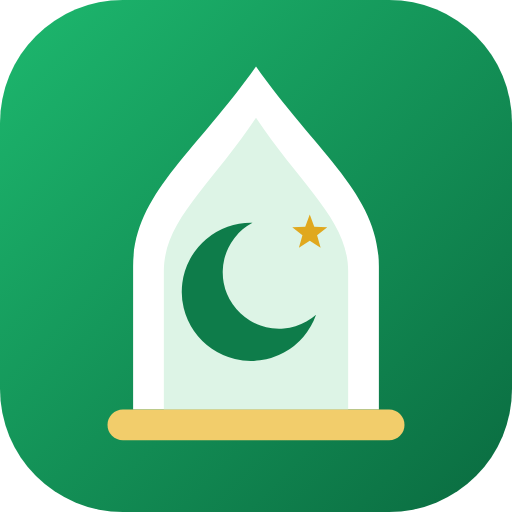
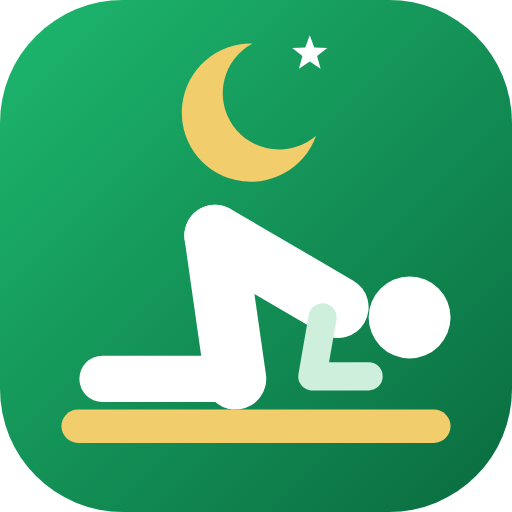
upgrade revisi pak Sam

Changed region(s): [[0.0938, 0.0625, 0.9062, 0.875], [0.5625, 0.0625, 0.625, 0.125]]

diff --git a/src/i18n.js b/src/i18n.js
@@ -1,6 +1,6 @@
 /** i18n.js — Indonesia, English, Arab (RTL), Melayu. t('kunci', {n:1}). Tambah bahasa baru = tambah satu objek. */
 const ID = {
-  hello: "Assalamu'alaikum!", 'ban.s': 'Ingat Allah', 'ban.h': 'Mulai Dzikir\nHari Ini', 'ban.b': 'Mulai sekarang',
+  hello: "Assalamu'alaikum!", 'ban.s': 'Asisten Shalat Berbasis AI', 'ban.h': 'Kalibrasi &\nKoreksi Kamera', 'ban.b1': 'Kalibrasi sensor', 'ban.b2': 'Buka kamera AI', 'f.rk.t': 'Kalibrasi Sensor', 'f.rk.d': 'Kalibrasi 3 detik, lalu rukuk, sujud & rakaat terhitung otomatis dari sensor HP.', 'f.cam.t': 'Koreksi Kamera AI', 'f.cam.d': 'AI membaca postur rukuk & sujud dari samping, lengkap dengan skor.', 'st.1': 'Kalibrasi 3 detik', 'st.2': 'Hitung otomatis', 'st.3': 'Koreksi kamera', 's.cam': 'skor gerakan', 'nav.rk': 'Kalibrasi',
   'm.rk': 'Rakaat', 'm.dz': 'Dzikir', 'm.cam': 'Koreksi AI', 'm.qb': 'Kiblat', 'nav.home': 'Beranda', 'nav.cam': 'Koreksi',
   bell: 'Aktifkan notifikasi', 'n.on': 'Notifikasi aktif', 'n.off': 'Notifikasi tidak diizinkan',
   'tm.title': 'Jadwal Shalat', 'tm.load': 'Memuat lokasi…', 'tm.left': 'lagi', 'tm.fail': 'Gagal memuat jadwal. Periksa internet.', 'tm.me': 'Lokasimu', 'tm.find': 'Mencari nama lokasi…', 'tm.noname': 'Lokasi terdeteksi (nama belum tersedia)', 'tm.tap': 'Ketuk untuk memperbarui lokasi', 'tm.def': 'Jakarta (izinkan lokasi agar akurat)', 'tm.now': 'Waktu shalat {n} telah tiba',
@@ -21,7 +21,7 @@ const ID = {
   'qb.title': 'Arah Kiblat', 'qb.intro': "Tekan mulai lalu putar HP hingga ikon Ka'bah di atas.", 'qb.start': 'Mulai kompas', 'qb.ok': 'Arah kiblat tepat', 'qb.deg': "Kiblat {d}° dari utara. Putar HP ke arah ikon Ka'bah.", 'qb.err': 'Sensor kompas tidak tersedia atau izin ditolak.', 'qb.n': 'U',
 };
 const EN = {
-  hello: 'Assalamu alaikum!', 'ban.s': 'Remember Allah', 'ban.h': 'Start Dhikr\nToday', 'ban.b': 'Start now',
+  hello: 'Assalamu alaikum!', 'ban.s': 'AI Prayer Assistant', 'ban.h': 'Calibrate &\nCamera Check', 'ban.b1': 'Calibrate sensor', 'ban.b2': 'Open AI camera', 'f.rk.t': 'Sensor Calibration', 'f.rk.d': 'Calibrate for 3 seconds, then ruku, sujud and rakat are counted automatically by your phone sensor.', 'f.cam.t': 'AI Camera Check', 'f.cam.d': 'AI reads your ruku and sujud posture from the side and gives you a score.', 'st.1': '3-sec calibration', 'st.2': 'Auto counting', 'st.3': 'Camera check', 's.cam': 'movement score', 'nav.rk': 'Calibrate',
   'm.rk': 'Rakat', 'm.dz': 'Dhikr', 'm.cam': 'AI Check', 'm.qb': 'Qibla', 'nav.home': 'Home', 'nav.cam': 'Check',
   bell: 'Enable notifications', 'n.on': 'Notifications enabled', 'n.off': 'Notifications not allowed',
   'tm.title': 'Prayer Times', 'tm.load': 'Loading location…', 'tm.left': 'left', 'tm.fail': 'Failed to load times. Check your internet.', 'tm.me': 'Your location', 'tm.find': 'Finding place name…', 'tm.noname': 'Location found (name unavailable)', 'tm.tap': 'Tap to refresh location', 'tm.def': 'Jakarta (allow location for accuracy)', 'tm.now': 'It is time for {n} prayer',
@@ -42,7 +42,7 @@ const EN = {
   'qb.title': 'Qibla Direction', 'qb.intro': 'Tap start, then turn your phone until the Kaaba icon is at the top.', 'qb.start': 'Start compass', 'qb.ok': 'Facing the Qibla', 'qb.deg': 'Qibla is {d}° from north. Turn toward the Kaaba icon.', 'qb.err': 'Compass sensor unavailable or permission denied.', 'qb.n': 'N',
 };
 const AR = {
-  hello: 'السلام عليكم!', 'ban.s': 'اذكر الله', 'ban.h': 'ابدأ الذكر\nاليوم', 'ban.b': 'ابدأ الآن',
+  hello: 'السلام عليكم!', 'ban.s': 'مساعد الصلاة بالذكاء الاصطناعي', 'ban.h': 'معايرة و\nفحص الكاميرا', 'ban.b1': 'معايرة المستشعر', 'ban.b2': 'افتح كاميرا الذكاء الاصطناعي', 'f.rk.t': 'معايرة المستشعر', 'f.rk.d': 'عايِر لمدة 3 ثوانٍ ثم تُحتسب الركعات والركوع والسجود تلقائيًا من مستشعر هاتفك.', 'f.cam.t': 'فحص الكاميرا الذكي', 'f.cam.d': 'يقرأ الذكاء الاصطناعي وضعية الركوع والسجود من الجانب ويعطيك درجة.', 'st.1': 'معايرة 3 ثوانٍ', 'st.2': 'عدّ تلقائي', 'st.3': 'فحص بالكاميرا', 's.cam': 'درجة الحركة', 'nav.rk': 'المعايرة',
   'm.rk': 'الركعات', 'm.dz': 'الأذكار', 'm.cam': 'فحص الحركة', 'm.qb': 'القبلة', 'nav.home': 'الرئيسية', 'nav.cam': 'فحص',
   bell: 'تفعيل الإشعارات', 'n.on': 'تم تفعيل الإشعارات', 'n.off': 'الإشعارات غير مسموحة',
   'tm.title': 'مواقيت الصلاة', 'tm.load': 'جارٍ تحديد الموقع…', 'tm.left': 'متبقٍ', 'tm.fail': 'تعذر تحميل المواقيت. تحقق من الإنترنت.', 'tm.me': 'موقعك', 'tm.find': 'جارٍ تحديد اسم المكان…', 'tm.noname': 'تم تحديد الموقع (الاسم غير متاح)', 'tm.tap': 'اضغط لتحديث الموقع', 'tm.def': 'جاكرتا (اسمح بالموقع لمزيد من الدقة)', 'tm.now': 'حان وقت صلاة {n}',
@@ -62,7 +62,7 @@ const AR = {
   'e.knee': 'الركبتان غير مستقيمتين', 'e.upright': 'الجسم غير منتصب', 'e.rlow': 'الركوع غير مكتمل والظهر غير مستوٍ', 'e.rhigh': 'الانحناء في الركوع زائد', 'e.head': 'لا ينبغي أن يكون الرأس أخفض من الظهر', 'e.rknee': 'لا تثنِ ركبتيك في الركوع', 'e.elbow': 'لا تُلصق المرفقين بالأرض', 'e.hip': 'الحوض غير مرفوع في السجود', 'e.sitback': 'الظهر غير منتصب أثناء الجلوس',
   'qb.title': 'اتجاه القبلة', 'qb.intro': 'اضغط ابدأ ثم أدر هاتفك حتى تكون أيقونة الكعبة في الأعلى.', 'qb.start': 'تشغيل البوصلة', 'qb.ok': 'أنت في اتجاه القبلة', 'qb.deg': 'القبلة {d}° من الشمال. أدر الهاتف نحو أيقونة الكعبة.', 'qb.err': 'حساس البوصلة غير متاح أو تم رفض الإذن.', 'qb.n': 'ش',
 };
-const MS = { ...ID, 'ban.h': 'Mula Zikir\nHari Ini', 'ban.b': 'Mula sekarang', 'rk.shirt': 'Poket Baju', 'rk.pants': 'Poket Seluar', 'rk.tilt': 'Kecondongan telefon', 'p.dzuhur': 'Zohor', 'p.ashar': 'Asar', 'p.isya': 'Isyak',
+const MS = { ...ID, 'ban.s': 'Pembantu Solat Berasaskan AI', 'ban.h': 'Tentukur &\nSemakan Kamera', 'ban.b1': 'Tentukur sensor', 'ban.b2': 'Buka kamera AI', 'f.rk.t': 'Tentukur Sensor', 'f.rk.d': 'Tentukur 3 saat, kemudian rukuk, sujud & rakaat dikira automatik oleh sensor telefon.', 'f.cam.t': 'Semakan Kamera AI', 'f.cam.d': 'AI membaca postur rukuk & sujud dari sisi, lengkap dengan skor.', 'st.1': 'Tentukur 3 saat', 'st.2': 'Kira automatik', 'st.3': 'Semakan kamera', 's.cam': 'skor gerakan', 'nav.rk': 'Tentukur', 'rk.shirt': 'Poket Baju', 'rk.pants': 'Poket Seluar', 'rk.tilt': 'Kecondongan telefon', 'p.dzuhur': 'Zohor', 'p.ashar': 'Asar', 'p.isya': 'Isyak',
   'tm.title': 'Waktu Solat', 'tm.load': 'Memuatkan lokasi…', 'tm.left': 'lagi', 'tm.fail': 'Gagal memuat waktu. Semak internet.', 'tm.me': 'Lokasi anda', 'tm.find': 'Mencari nama lokasi…', 'tm.noname': 'Lokasi dikesan (nama tidak tersedia)', 'tm.tap': 'Ketik untuk kemas kini lokasi', 'tm.def': 'Jakarta (benarkan lokasi untuk ketepatan)', 'tm.now': 'Masuk waktu solat {n}',
   's.streak': 'hari berturut', 's.dz': 'zikir hari ini', 's.pr': 'solat hari ini', mark: 'tandakan sudah solat', 'm.dz': 'Zikir', 'm.cam': 'Semakan AI', 'nav.cam': 'Semak', bell: 'Aktifkan notifikasi',
   'rk.title': 'Pengira Rakaat', 'rk.start': 'Tentukur & mula', 'rk.stop': 'Henti', 'rk.intro': 'Berdiri tegak 3 saat untuk penentukuran, kemudian mula solat.', 'rk.hint': 'Poket Baju mengesan gerakan badan, Poket Seluar mengesan gerakan paha. Berdiri tegak semasa penentukuran.',

diff --git a/src/icons.js b/src/icons.js
@@ -11,6 +11,7 @@ const P = {
   beads: '<circle cx="19" cy="12" r="1.7"/><circle cx="16.95" cy="16.95" r="1.7"/><circle cx="12" cy="19" r="1.7"/><circle cx="7.05" cy="16.95" r="1.7"/><circle cx="5" cy="12" r="1.7"/><circle cx="7.05" cy="7.05" r="1.7"/><circle cx="12" cy="5" r="1.7"/><circle cx="16.95" cy="7.05" r="1.7"/>',
   ruku: '<circle cx="6" cy="8" r="2"/><path d="M8.5 9.5H17M17 9.5V20M10 10l6 5.5"/>',
   scan: '<path d="M4 8V5a1 1 0 0 1 1-1h3M16 4h3a1 1 0 0 1 1 1v3M20 16v3a1 1 0 0 1-1 1h-3M8 20H5a1 1 0 0 1-1-1v-3"/><circle cx="12" cy="8.5" r="1.7"/><path d="M12 11v5M9.5 12.5L12 11l2.5 1.5M12 16l-2 3M12 16l2 3"/>',
+  calib: '<circle cx="12" cy="12" r="8"/><circle cx="12" cy="12" r="3"/><path d="M12 2v3M12 19v3M2 12h3M19 12h3"/>',
   sunrise: '<path d="M3 18h18M7 18a5 5 0 0 1 10 0M12 4v6M9.5 6.5L12 4l2.5 2.5"/>',
   sun: '<circle cx="12" cy="12" r="4"/><path d="M12 2v3M12 19v3M2 12h3M19 12h3M5 5l2 2M17 17l2 2M5 19l2-2M17 7l2-2"/>',
   afternoon: '<circle cx="9" cy="9" r="3"/><path d="M9 2.5V4M2.5 9H4M4.5 4.5l1 1M13.5 4.5l-1 1"/><path d="M8 20a4 4 0 0 1 .5-8 5 5 0 0 1 9.5 1.5A3.3 3.3 0 0 1 17.5 20z"/>',
@@ -24,10 +25,11 @@ const P = {
   lock: '<rect x="5" y="11" width="14" height="9" rx="2.5"/><path d="M8 11V8a4 4 0 0 1 8 0v3"/>',
   shield: '<path d="M12 3l7 3v5c0 4.5-3 8.2-7 10-4-1.8-7-5.5-7-10V6z"/><path d="M9 12l2 2 4-4"/>',
   trash: '<path d="M4 7h16M9 7V4h6v3M6 7l1 13h10l1-13M10 11v6M14 11v6"/>',
+  arrow: '<path d="M9 5l7 7-7 7"/>',
   user: '<circle cx="12" cy="8" r="4"/><path d="M4 20c1-4 4.5-6 8-6s7 2 8 6"/>',
 };
 export const ic = (n, s = 24) => `<svg class="ic" width="${s}" height="${s}" viewBox="0 0 24 24" fill="none" stroke="currentColor" stroke-width="1.8" stroke-linecap="round" stroke-linejoin="round" aria-hidden="true">${P[n]}</svg>`;
-export const logo = () => `<svg class="logo" viewBox="0 0 100 100" aria-hidden="true"><rect width="100" height="100" rx="24" fill="url(#lgBg)"/><path d="M26 80V52C26 38 38 30 50 13C62 30 74 38 74 52V80Z" fill="#fff"/><path d="M32 80V53C32 43 41 36.5 50 23C59 36.5 68 43 68 53V80Z" fill="#DDF4E6"/><path d="M49.31 43.5A13.5 13.5 0 1 0 61.73 61.49A11 11 0 1 1 49.31 43.5Z" fill="#0E7C4A"/><path d="M60.5,41.9L61.38,44.29L63.92,44.39L61.93,45.96L62.62,48.41L60.5,47L58.38,48.41L59.07,45.96L57.08,44.39L59.62,44.29Z" fill="#E0A81E"/><rect x="21" y="80" width="58" height="6" rx="3" fill="#F2CD6B"/></svg>`;
+export const logo = () => `<svg class="logo" viewBox="0 0 100 100" aria-hidden="true"><rect width="100" height="100" rx="24" fill="url(#lgBg)"/><g transform="translate(0 -35)"><path d="M49.31 43.5A13.5 13.5 0 1 0 61.73 61.49A11 11 0 1 1 49.31 43.5Z" fill="#F2CD6B"/><path d="M60.5,41.9L61.38,44.29L63.92,44.39L61.93,45.96L62.62,48.41L60.5,47L58.38,48.41L59.07,45.96L57.08,44.39L59.62,44.29Z" fill="#fff"/></g><g transform="translate(0 -6)" fill="none" stroke-linecap="round" stroke-linejoin="round" stroke="#fff"><path d="M20 80H46" stroke-width="9"/><path d="M46 80L42 52" stroke-width="12"/><path d="M42 52L66 66" stroke-width="12"/><path d="M63 68L61 79.5H72" stroke-width="5.5" stroke="#CDEFDB"/></g><circle cx="80" cy="62" r="8" fill="#fff"/><rect x="12" y="80" width="76" height="6.5" rx="3.25" fill="#F2CD6B"/></svg>`;
 export function beads() { // cincin tasbih 18 manik, berputar pelan & berpendar bergantian
   let s = '<svg viewBox="0 0 200 200" aria-hidden="true"><g class="ring">';
   for (let i = 0; i < 18; i++) { const a = (i * 20 - 90) * Math.PI / 180; s += `<circle cx="${(100 + 74 * Math.cos(a)).toFixed(1)}" cy="${(100 + 74 * Math.sin(a)).toFixed(1)}" r="${i === 0 ? 10 : 6.5}" style="animation-delay:${(i * 0.17).toFixed(2)}s"/>`; }
@@ -36,4 +38,11 @@ export function beads() { // cincin tasbih 18 manik, berputar pelan & berpendar 
 export function mount(root = document) {
   root.querySelectorAll('[data-ic]').forEach((e) => (e.innerHTML = ic(e.dataset.ic, +e.dataset.s || 24)));
   root.querySelectorAll('[data-logo]').forEach((e) => (e.innerHTML = logo()));
+}
+/** Dekorasi banner beranda: bingkai pemindai + kerangka sendi (kesan "AI membaca gerakan"). */
+export function scanDeco() {
+  const j = [[62, 58], [86, 74], [110, 70], [130, 92], [132, 124]]; // kepala/bahu → pinggul → lutut (ilustrasi)
+  const lines = j.slice(1).map((p, i) => `<line x1="${j[i][0]}" y1="${j[i][1]}" x2="${p[0]}" y2="${p[1]}"/>`).join('');
+  const dots = j.map((p, i) => `<circle class="jt" cx="${p[0]}" cy="${p[1]}" r="${i === 0 ? 9 : 5.5}" style="animation-delay:${(i * 0.25).toFixed(2)}s"/>`).join('');
+  return `<svg viewBox="0 0 200 200" aria-hidden="true"><g class="frm"><path d="M30 62V40a10 10 0 0 1 10-10h22M138 30h22a10 10 0 0 1 10 10v22M170 138v22a10 10 0 0 1-10 10h-22M62 170H40a10 10 0 0 1-10-10v-22"/></g><g class="skel">${lines}${dots}</g><line class="scanln" x1="38" y1="0" x2="162" y2="0"/></svg>`;
 }

diff --git a/src/app.js b/src/app.js
@@ -1,10 +1,9 @@
 /** app.js — navigasi, bahasa, jadwal shalat, beranda, penghitung rakaat (sensor), koreksi gerakan (kamera). */
 import { $, z, dayKey, store, toast, speak, beep, place, placeName, session, logout, isAdmin, syncStats } from './util.js';
 import { t, lang, setLang, apply, hooks, LANGS } from './i18n.js';
-import { ic, mount, beads } from './icons.js';
+import { ic, mount, scanDeco } from './icons.js';
 import { createCounter } from './counter.js';
 import { startPose, stopPose } from './pose.js';
-import { dzToday } from './dzikir.js';
 import './qibla.js';
 
 const PR = [{ id: 'subuh', k: 'Fajr', r: 2, i: 'sunrise' }, { id: 'dzuhur', k: 'Dhuhr', r: 4, i: 'sun' }, { id: 'ashar', k: 'Asr', r: 4, i: 'afternoon' }, { id: 'maghrib', k: 'Maghrib', r: 3, i: 'sunset' }, { id: 'isya', k: 'Isha', r: 4, i: 'moon' }];
@@ -13,7 +12,7 @@ const setBtn = (el, k) => { el.dataset.i = k; el.textContent = t(k); }, pName = 
 /* ---- Bahasa, ikon, splash ---- */
 $('lang').innerHTML = Object.entries(LANGS).map(([k, [n]]) => `<option value="${k}" title="${n}" ${k === lang() ? 'selected' : ''}>${k.toUpperCase()}</option>`).join('');
 $('lang').onchange = (e) => setLang(e.target.value);
-mount(); apply(); $('deco').innerHTML = beads();
+mount(); apply(); $('deco').innerHTML = scanDeco();
 function setGreet() {
   const s = session() || {}, h = new Date().getHours(), guest = s.id === 'guest';
   const part = h < 4 ? 'night' : h < 10 ? 'morning' : h < 15 ? 'noon' : h < 18 ? 'afternoon' : 'night';
@@ -63,7 +62,7 @@ function renderHome() {
   if (locInfo) { delete $('locTxt').dataset.i; $('locTxt').textContent = !locInfo.ok ? t('tm.def') : locInfo.name || (locInfo.failed ? t('tm.noname') : t('tm.find')); }
   $('tgrid').innerHTML = PR.map((p) => `<button class="tc ${nx.id === p.id ? 'next' : ''} ${today[p.id] ? 'done' : ''}" data-id="${p.id}" aria-pressed="${!!today[p.id]}" aria-label="${pName(p.id)}, ${t('mark')}"><span>${times[p.id] ? hm(times[p.id]) : '--:--'}</span>${ic(p.i, 26)}${pName(p.id)}</button>`).join('');
   let s = 0; for (let d = new Date(); ; d.setDate(d.getDate() - 1)) { const l = log[dayKey(d)]; if (l && PR.every((p) => l[p.id])) s++; else if (dayKey(d) === dayKey()) continue; else break; }
-  $('hStreak').textContent = s; $('hDz').textContent = dzToday(); $('hDone').textContent = PR.filter((p) => today[p.id]).length + '/5';
+  $('hStreak').textContent = s; { const c = store.get('rs.cam', null); $('hCam').textContent = c && c.score != null ? c.score + '%' : '–'; } $('hDone').textContent = PR.filter((p) => today[p.id]).length + '/5';
   setDates(); if (times.subuh) $('nextName').textContent = pName(nextPrayer().id);
 }
 $('tgrid').onclick = (e) => { const b = e.target.closest('.tc'); if (b) mark(b.dataset.id, !(store.get('rs.log', {})[dayKey()] || {})[b.dataset.id]); };
@@ -103,16 +102,17 @@ $('cStart').onclick = async () => {
 $('plus').onclick = () => { counter.adjust(1); refresh(true); }; $('minus').onclick = () => { counter.adjust(-1); finished = false; refresh(); };
 
 /* ---- Koreksi gerakan (kamera) ---- */
-let camOn = false, errs = 0;
+let camOn = false, errs = 0, lastScore = null, camSave = 0;
+const saveCam = () => { if (lastScore == null) return; store.set('rs.cam', { score: lastScore, at: Date.now() }); renderHome(); };
 $('camBtn').onclick = async () => {
-  if (camOn) { stopPose($('video')); camOn = false; setBtn($('camBtn'), 'cam.start'); return; }
-  setBtn($('camBtn'), 'cam.load'); errs = 0; $('errs').textContent = 0;
+  if (camOn) { stopPose($('video')); camOn = false; clearInterval(camSave); saveCam(); setBtn($('camBtn'), 'cam.start'); return; }
+  setBtn($('camBtn'), 'cam.load'); errs = 0; lastScore = null; $('errs').textContent = 0;
   try {
     await startPose($('video'), $('ov'), {
       posture: (n, bad) => { $('posture').dataset.i = 'po.' + n; $('posture').textContent = t('po.' + n); $('posture').classList.toggle('bad', bad); },
-      score: (s) => ($('score').textContent = s + '%'),
+      score: (s) => { lastScore = s; $('score').textContent = s + '%'; },
       error: (code) => { errs++; $('errs').textContent = errs; const s = t('cam.warn', { m: t('e.' + code) }); toast(s); speak(s, lang()); navigator.vibrate?.(200); },
-    }); camOn = true; setBtn($('camBtn'), 'rk.stop');
+    }); camOn = true; camSave = setInterval(saveCam, 8000); setBtn($('camBtn'), 'rk.stop');
   } catch { setBtn($('camBtn'), 'cam.start'); toast(t('cam.err')); }
 };
 

diff --git a/index.html b/index.html
@@ -48,14 +48,20 @@
       <button class="icon" id="logout" data-ia="au.out" data-ic="logout" data-s="20"></button></div>
   </div>
   <div class="greet"><h1 id="greet"></h1><p id="greet2"></p><small id="dates"></small></div>
-  <div class="banner"><small data-i="ban.s"></small><h2 data-i="ban.h"></h2><button class="pill dark" data-go="dz" data-i="ban.b"></button><div class="deco" id="deco"></div></div>
-  <div class="menu">
-    <button data-go="rk"><span data-ic="ruku" data-s="30"></span><em data-i="m.rk"></em></button><button data-go="dz"><span data-ic="beads" data-s="30"></span><em data-i="m.dz"></em></button>
-    <button data-go="cam"><span data-ic="scan" data-s="30"></span><em data-i="m.cam"></em></button><button data-go="qb"><span data-ic="compass" data-s="30"></span><em data-i="m.qb"></em></button>
+  <div class="banner"><small data-i="ban.s"></small><h2 data-i="ban.h"></h2>
+    <div class="ban-btns"><button class="pill dark" data-go="rk" data-i="ban.b1"></button><button class="pill glass" data-go="cam" data-i="ban.b2"></button></div>
+    <div class="deco" id="deco"></div></div>
+  <div class="feat">
+    <button class="fcard" data-go="rk"><span class="fi" data-ic="calib" data-s="28"></span><span class="ft"><b data-i="f.rk.t"></b><small data-i="f.rk.d"></small></span><span class="fa" data-ic="arrow" data-s="20"></span></button>
+    <button class="fcard cam" data-go="cam"><span class="fi" data-ic="scan" data-s="28"></span><span class="ft"><b data-i="f.cam.t"></b><small data-i="f.cam.d"></small></span><span class="fa" data-ic="arrow" data-s="20"></span></button>
+  </div>
+  <div class="steps"><div><i>1</i><span data-i="st.1"></span></div><div><i>2</i><span data-i="st.2"></span></div><div><i>3</i><span data-i="st.3"></span></div></div>
+  <div class="menu two">
+    <button data-go="qb"><span data-ic="compass" data-s="26"></span><em data-i="m.qb"></em></button><button data-go="dz"><span data-ic="beads" data-s="26"></span><em data-i="m.dz"></em></button>
   </div>
   <div class="card times"><button class="loc" id="loc" data-ia="tm.tap"><span data-ic="pin" data-s="16"></span><span id="locTxt" data-i="tm.load"></span></button><h3 data-i="tm.title"></h3><div class="next"><span id="nextName">—</span> <b id="nextTime">--:--</b> <small id="countdown"></small></div>
     <div class="tgrid" id="tgrid"></div>
-    <div class="sum"><div><b id="hStreak">0</b><small data-i="s.streak"></small></div><div><b id="hDz">0</b><small data-i="s.dz"></small></div><div><b id="hDone">0/5</b><small data-i="s.pr"></small></div></div></div>
+    <div class="sum"><div><b id="hStreak">0</b><small data-i="s.streak"></small></div><div><b id="hCam">–</b><small data-i="s.cam"></small></div><div><b id="hDone">0/5</b><small data-i="s.pr"></small></div></div></div>
 </section>
 
 <section id="adm" class="tab">
@@ -127,6 +133,6 @@
 </section>
 </main>
 
-<nav class="nav" id="nav"><button data-go="home" class="on"><span data-ic="home"></span><span data-i="nav.home"></span></button><button data-go="rk"><span data-ic="ruku"></span><span data-i="m.rk"></span></button><button data-go="dz"><span data-ic="beads"></span><span data-i="m.dz"></span></button><button data-go="cam"><span data-ic="scan"></span><span data-i="nav.cam"></span></button><button data-go="qb"><span data-ic="compass"></span><span data-i="m.qb"></span></button></nav>
+<nav class="nav" id="nav"><button data-go="home" class="on"><span data-ic="home"></span><span data-i="nav.home"></span></button><button data-go="rk"><span data-ic="calib"></span><span data-i="nav.rk"></span></button><button data-go="cam"><span data-ic="scan"></span><span data-i="nav.cam"></span></button><button data-go="qb"><span data-ic="compass"></span><span data-i="m.qb"></span></button><button data-go="dz"><span data-ic="beads"></span><span data-i="m.dz"></span></button></nav>
 <script type="module" src="/src/main.js"></script>
 </body></html>

diff --git a/src/style.css b/src/style.css
@@ -188,3 +188,32 @@ button:focus-visible,select:focus-visible,input:focus-visible{outline:3px solid 
 .abtn{margin-top:.6rem}.abtn.ghost{background:#fff;color:var(--g3);border:1.5px solid var(--line);box-shadow:none}.abtn.danger{color:#B3262B}
 .urow.clk{cursor:pointer}.uchev{opacity:.45;display:grid}
 #aDetail{margin-top:.9rem}#aDetail>.mute.small{margin:.5rem 0 1rem}#aDetail>.au-err{margin:0 0 .8rem}#aAdd{margin:.5rem 0 .9rem}
+
+/* ---- Beranda v6: fokus kalibrasi & kamera AI ---- */
+.banner h2,.banner small,.ban-btns{position:relative;z-index:1}
+.banner h2{font-size:1.65rem;max-width:100%}
+.banner .deco{top:-6px;bottom:auto;inset-inline-end:-8px;width:150px;height:150px}
+.ban-btns{display:flex;gap:.5rem;flex-wrap:wrap}
+.pill.glass{background:rgba(255,255,255,.16);color:#fff;border:1px solid rgba(255,255,255,.55)}
+.deco .frm path{fill:none;stroke:#fff;stroke-width:5;stroke-linecap:round;opacity:.38}
+.deco .skel line{stroke:#fff;stroke-width:5;stroke-linecap:round;opacity:.3}
+.deco .jt{fill:#fff;opacity:.55;animation:jtp 2.4s ease-in-out infinite}
+.deco .scanln{stroke:#F2CD6B;stroke-width:3;stroke-linecap:round;animation:scanmv 3.2s ease-in-out infinite}
+@keyframes jtp{50%{opacity:.2}}
+@keyframes scanmv{0%{transform:translateY(34px);opacity:0}15%,85%{opacity:.9}100%{transform:translateY(166px);opacity:0}}
+.feat{display:grid;gap:.7rem;margin-bottom:.8rem}
+.fcard{display:flex;align-items:center;gap:.85rem;text-align:start;background:#fff;border:1px solid var(--line);border-radius:22px;padding:.9rem 1rem;box-shadow:var(--shadow);cursor:pointer;color:var(--text);font:inherit;width:100%;transition:transform .12s}
+.fcard:active{transform:scale(.985)}
+.fcard .fi{flex:none;width:54px;height:54px;border-radius:17px;background:var(--grad);color:#fff;display:grid;place-items:center;box-shadow:0 8px 18px rgba(14,124,74,.25)}
+.fcard.cam .fi{background:linear-gradient(135deg,#F2CD6B,#D9A92E);color:var(--g3);box-shadow:0 8px 18px rgba(201,162,63,.3)}
+.fcard .ft{flex:1;display:grid;gap:.15rem;min-width:0}
+.fcard .ft b{font-size:.98rem;font-weight:800;color:var(--g3);line-height:1.25}
+.fcard .ft small{font-size:.78rem;line-height:1.4;color:var(--mute);font-weight:500}
+.fcard .fa{flex:none;color:var(--g2)}
+[dir=rtl] .fcard .fa .ic{transform:scaleX(-1)}
+.steps{display:grid;grid-template-columns:repeat(3,1fr);gap:.45rem;margin:0 0 .9rem}
+.steps div{display:flex;align-items:center;gap:.4rem;background:var(--card2);border-radius:14px;padding:.5rem .55rem;font-size:.7rem;font-weight:700;color:var(--g3);line-height:1.2}
+.steps i{flex:none;width:20px;height:20px;border-radius:50%;background:var(--g2);color:#fff;font-style:normal;display:grid;place-items:center;font-size:.7rem}
+.menu.two{grid-template-columns:repeat(2,1fr)}
+.menu.two button{grid-auto-flow:column;justify-content:center;align-items:center;gap:.6rem;padding:.55rem .6rem}
+.menu.two button>span{width:42px;height:42px;border-radius:14px}

diff --git a/tools/logo.py b/tools/logo.py
@@ -1,4 +1,5 @@
-"""Sumber logo RakaatSense: mihrab (lengkungan masjid) + bulan sabit + sajadah. Hasilkan SVG & PNG."""
+"""Sumber logo RakaatSense: siluet orang sedang SUJUD (tampak samping) di atas sajadah + bulan sabit. Hasilkan SVG & PNG.
+Jalankan dari root project: python3 tools/logo.py   (butuh: pip install playwright && playwright install chromium)"""
 import asyncio, os
 from playwright.async_api import async_playwright
 
@@ -6,12 +7,16 @@ GREEN_A, GREEN_B = "#1DB86E", "#0A6B40"
 CRES = "M49.31 43.50A13.5 13.5 0 1 0 61.73 61.49A11 11 0 1 1 49.31 43.50Z"
 STAR = "M60.50,41.90 L61.38,44.29 L63.92,44.39 L61.93,45.96 L62.62,48.41 L60.50,47.00 L58.38,48.41 L59.07,45.96 L57.08,44.39 L59.62,44.29Z"
 
-def art(transform=""):
+def art(transform="", mono=False):
+    """Gambar logo (kanvas 100x100). mono=True -> semua hitam (untuk ikon monokrom Android 13+)."""
+    c = lambda x: "#000" if mono else x
     return f'''<g {transform}>
-<path d="M26 80V52C26 38 38 30 50 13C62 30 74 38 74 52V80Z" fill="#fff"/>
-<path d="M32 80V53C32 43 41 36.5 50 23C59 36.5 68 43 68 53V80Z" fill="#DDF4E6"/>
-<path d="{CRES}" fill="#0E7C4A"/><path d="{STAR}" fill="#E0A81E"/>
-<rect x="21" y="80" width="58" height="6" rx="3" fill="#F2CD6B"/></g>'''
+<g transform="translate(0 -35)"><path d="{CRES}" fill="{c('#F2CD6B')}"/><path d="{STAR}" fill="{c('#fff')}"/></g>
+<g transform="translate(0 -6)" fill="none" stroke-linecap="round" stroke-linejoin="round" stroke="{c('#fff')}">
+<path d="M20 80H46" stroke-width="9"/><path d="M46 80L42 52" stroke-width="12"/><path d="M42 52L66 66" stroke-width="12"/>
+<path d="M63 68L61 79.5H72" stroke-width="5.5" stroke="{c('#CDEFDB')}"/></g>
+<circle cx="80" cy="62" r="8" fill="{c('#fff')}"/>
+<rect x="12" y="80" width="76" height="6.5" rx="3.25" fill="{c('#F2CD6B')}"/></g>'''
 
 DEFS = f'<defs><linearGradient id="g" x1="0" y1="0" x2="1" y2="1"><stop offset="0" stop-color="{GREEN_A}"/><stop offset="1" stop-color="{GREEN_B}"/></linearGradient></defs>'
 
@@ -19,17 +24,17 @@ def svg(kind):
     if kind == "full":      # ikon kotak membulat (favicon / PWA)
         return f'<svg xmlns="http://www.w3.org/2000/svg" viewBox="0 0 100 100">{DEFS}<rect width="100" height="100" rx="24" fill="url(#g)"/>{art()}</svg>'
     if kind == "square":    # tanpa sudut membulat (dipotong sistem / maskable)
-        return f'<svg xmlns="http://www.w3.org/2000/svg" viewBox="0 0 100 100">{DEFS}<rect width="100" height="100" fill="url(#g)"/>{art("transform=\"translate(50 50) scale(.78) translate(-50 -50)\"")}</svg>'
+        return f'<svg xmlns="http://www.w3.org/2000/svg" viewBox="0 0 100 100">{DEFS}<rect width="100" height="100" fill="url(#g)"/>{art("transform=\"translate(50 50) scale(.78) translate(-50 -48)\"")}</svg>'
     if kind == "bg":
         return f'<svg xmlns="http://www.w3.org/2000/svg" viewBox="0 0 100 100">{DEFS}<rect width="100" height="100" fill="url(#g)"/></svg>'
     if kind == "fg":        # adaptive foreground, area aman 66%
-        return f'<svg xmlns="http://www.w3.org/2000/svg" viewBox="0 0 100 100">{art("transform=\"translate(50 50) scale(.62) translate(-50 -49.5)\"")}</svg>'
+        return f'<svg xmlns="http://www.w3.org/2000/svg" viewBox="0 0 100 100">{art("transform=\"translate(50 50) scale(.56) translate(-50 -48)\"")}</svg>'
     if kind == "mono":
-        return f'<svg xmlns="http://www.w3.org/2000/svg" viewBox="0 0 100 100"><g transform="translate(50 50) scale(.62) translate(-50 -49.5)"><path d="M26 80V52C26 38 38 30 50 13C62 30 74 38 74 52V80Z" fill="#000"/><rect x="21" y="80" width="58" height="6" rx="3" fill="#000"/></g></svg>'
+        return f'<svg xmlns="http://www.w3.org/2000/svg" viewBox="0 0 100 100">{art("transform=\"translate(50 50) scale(.56) translate(-50 -48)\"", mono=True)}</svg>'
     if kind == "round":
-        return f'<svg xmlns="http://www.w3.org/2000/svg" viewBox="0 0 100 100">{DEFS}<circle cx="50" cy="50" r="50" fill="url(#g)"/>{art("transform=\"translate(50 50) scale(.78) translate(-50 -50)\"")}</svg>'
+        return f'<svg xmlns="http://www.w3.org/2000/svg" viewBox="0 0 100 100">{DEFS}<circle cx="50" cy="50" r="50" fill="url(#g)"/>{art("transform=\"translate(50 50) scale(.78) translate(-50 -48)\"")}</svg>'
     if kind == "splash":
-        return f'<svg xmlns="http://www.w3.org/2000/svg" viewBox="0 0 100 100">{DEFS}<rect width="100" height="100" fill="url(#g)"/>{art("transform=\"translate(50 50) scale(.3) translate(-50 -50)\"")}</svg>'
+        return f'<svg xmlns="http://www.w3.org/2000/svg" viewBox="0 0 100 100">{DEFS}<rect width="100" height="100" fill="url(#g)"/>{art("transform=\"translate(50 50) scale(.42) translate(-50 -48)\"")}</svg>'
 
 async def render(page, svg_text, size, out, transparent=False, w=None, h=None):
     w, h = w or size, h or size
@@ -50,7 +55,7 @@ async def main():
         # ---- aset Android (Capacitor) ----
         A = "android-assets"; R = A + "/res"
         os.makedirs(A + "/assets", exist_ok=True)
-        await render(pg, svg("square").replace('translate(50 50) scale(.78) translate(-50 -50)', 'translate(50 50) scale(.8) translate(-50 -50)'), 1024, A + "/assets/icon-only.png")
+        await render(pg, svg("square").replace('translate(50 50) scale(.78) translate(-50 -48)', 'translate(50 50) scale(.8) translate(-50 -48)'), 1024, A + "/assets/icon-only.png")
         await render(pg, svg("fg"), 1024, A + "/assets/icon-foreground.png", True)
         await render(pg, svg("bg"), 1024, A + "/assets/icon-background.png")
         await render(pg, svg("splash"), 2732, A + "/assets/splash.png")

diff --git a/README.md b/README.md
@@ -11,7 +11,7 @@ Koreksi gerakan kamera (MediaPipe Pose) · **Dzikir** (6 preset, paket setelah s
 - Kiblat: bearing great-circle ke Ka'bah + sensor orientasi.
 ## v3: tampilan terang + logo baru + nama lokasi
 - Tema putih + hijau zamrud (token warna di `:root` pada `src/style.css`).
-- Logo: mihrab (lengkung masjid) + bulan sabit + sajadah. Sumber di `tools/logo.py` (`python3 tools/logo.py` membuat ulang semua PNG/SVG).
+- Logo (v3, sudah diganti di v6): sumber di `tools/logo.py` (`python3 tools/logo.py` membuat ulang semua PNG/SVG).
 - Lokasi tampil sebagai nama asli, mis. **Genuksari, Genuk, Semarang** (kelurahan, kecamatan, kota), lewat reverse geocoding OpenStreetMap Nominatim, cadangan BigDataCloud. Hasil di-cache per ~100 m. Ketuk nama lokasi untuk memperbarui. Butuh internet.
 
 ## APK (Capacitor)
@@ -65,3 +65,15 @@ Daftar pengguna + pencarian + statistik · ketuk pengguna → data ibadahnya (st
 Akun mode lokal tidak ikut pindah ke Firebase.
 
 Jika mengganti email admin utama, ubah juga di `VITE_ADMIN_EMAILS`, `src/config.js` (`LOCAL_ADMIN`) dan `firestore.rules`.
+
+## v6: logo orang sujud + beranda fokus Kalibrasi & Kamera AI
+- **Logo/ikon APK baru**: siluet orang sedang **sujud** (tampak samping) di atas sajadah emas + bulan sabit, latar hijau zamrud. Sumber: `tools/logo.py` (`python3 tools/logo.py` membuat ulang `public/*` dan seluruh `android-assets/*`: ikon launcher, adaptif, bulat, monokrom, splash). Logo di dalam aplikasi ada di `src/icons.js` (`logo()`).
+- **Beranda** (`index.html`, `src/app.js`, `src/style.css`, `src/i18n.js`):
+  - Banner utama kini **“Kalibrasi & Koreksi Kamera”** dengan 2 tombol: *Kalibrasi sensor* dan *Buka kamera AI* (dekorasi kerangka sendi + garis pemindai).
+  - 2 kartu fitur besar: **Kalibrasi Sensor** dan **Koreksi Kamera AI**, plus strip 3 langkah (Kalibrasi 3 detik → Hitung otomatis → Koreksi kamera).
+  - **Dzikir** dan **Kiblat** menjadi pintasan sekunder di bawahnya (fitur dzikir tetap utuh).
+  - Ringkasan hari ini: statistik "dzikir hari ini" diganti **skor gerakan kamera terakhir** (disimpan di `rs.cam`, tampil sebagai `87%`).
+  - Navigasi bawah: Beranda · Kalibrasi · Koreksi (kamera) · Kiblat · Dzikir.
+  - Semua teks baru tersedia di 4 bahasa (ID/EN/AR/MS).
+- **Pasang ikon baru ke APK** (setelah `npx cap add android`): `cp -r android-assets/res/* android/app/src/main/res/ && npx cap sync`.
+
